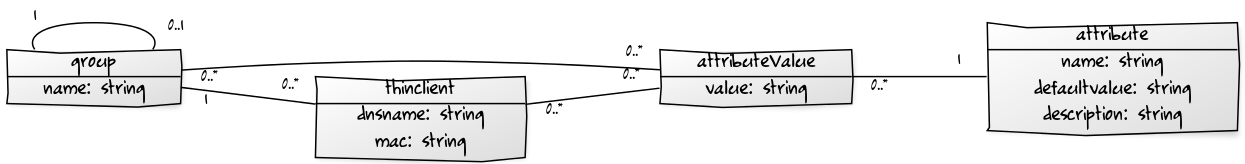
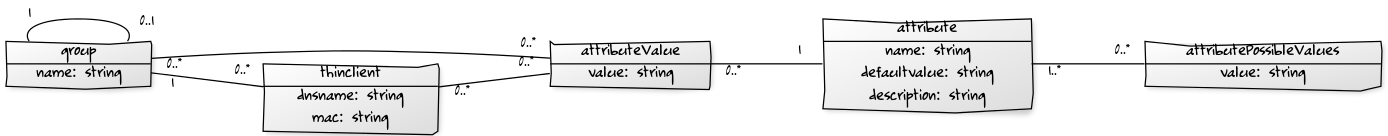
Cambio en el model, ahora hay una tabla extra para los valores posibles de los atributos

diff --git a/templates/admin/index.html b/templates/admin/index.html
@@ -1,0 +1,83 @@
+{% extends "admin/base_site.html" %}
+{% load i18n admin_static %}
+
+{% block extrastyle %}{{ block.super }}<link rel="stylesheet" type="text/css" href="{% static "admin/css/dashboard.css" %}" />{% endblock %}
+
+{% block coltype %}colMS{% endblock %}
+
+{% block bodyclass %}dashboard{% endblock %}
+
+{% block breadcrumbs %}{% endblock %}
+
+{% block content %}
+<div id="content-main">
+{% if app_list %}
+    {% for app in app_list %}
+        <div class="app-{{ app.app_label }} module">
+        <table>
+        <caption>
+            <a href="{{ app.app_url }}" class="section" title="{% blocktrans with name=app.name %}Models in the {{ name }} application{% endblocktrans %}">
+                {% blocktrans with name=app.name %}{{ name }}{% endblocktrans %}
+            </a>
+        </caption>
+        {% for model in app.models %}
+            <tr class="model-{{ model.object_name|lower }}">
+            {% if model.admin_url %}
+                <th scope="row"><a href="{{ model.admin_url }}">{{ model.name }}</a></th>
+            {% else %}
+                <th scope="row">{{ model.name }}</th>
+            {% endif %}
+
+            {% if model.add_url %}
+                <td><a href="{{ model.add_url }}" class="addlink">{% trans 'Add' %}</a></td>
+            {% else %}
+                <td>&nbsp;</td>
+            {% endif %}
+
+            {% if model.admin_url %}
+                <td><a href="{{ model.admin_url }}" class="changelink">{% trans 'Change' %}</a></td>
+            {% else %}
+                <td>&nbsp;</td>
+            {% endif %}
+            </tr>
+        {% endfor %}
+        </table>
+        </div>
+    {% endfor %}
+{% else %}
+    <p>{% trans "You don't have permission to edit anything." %}</p>
+{% endif %}
+</div>
+{% endblock %}
+
+{% block sidebar %}
+<div id="content-related">
+    <div class="module" id="recent-actions-module">
+        <h2>{% trans 'Recent Actions' %}</h2>
+        <h3>{% trans 'My Actions' %}</h3>
+            {% load log %}
+            {% get_admin_log 10 as admin_log for_user user %}
+            {% if not admin_log %}
+            <p>{% trans 'None available' %}</p>
+            {% else %}
+            <ul class="actionlist">
+            {% for entry in admin_log %}
+            <li class="{% if entry.is_addition %}addlink{% endif %}{% if entry.is_change %}changelink{% endif %}{% if entry.is_deletion %}deletelink{% endif %}">
+                {% if entry.is_deletion or not entry.get_admin_url %}
+                    {{ entry.object_repr }}
+                {% else %}
+                    <a href="{{ entry.get_admin_url }}">{{ entry.object_repr }}</a>
+                {% endif %}
+                <br/>
+                {% if entry.content_type %}
+                    <span class="mini quiet">{% filter capfirst %}{% trans entry.content_type.name %}{% endfilter %}</span>
+                {% else %}
+                    <span class="mini quiet">{% trans 'Unknown content' %}</span>
+                {% endif %}
+            </li>
+            {% endfor %}
+            </ul>
+            {% endif %}
+    </div>
+</div>
+{% endblock %}

diff --git a/templates/admin/base_site.html b/templates/admin/base_site.html
@@ -1,0 +1,10 @@
+{% extends "admin/base.html" %}
+{% load i18n %}
+
+{% block title %}{{ title }} | {% trans 'Django site admin' %}{% endblock %}
+
+{% block branding %}
+<h1 id="site-name">{% trans 'Django administration' %}</h1>
+{% endblock %}
+
+{% block nav-global %}{% endblock %}

diff --git a/ControlPanel/admin.py b/ControlPanel/admin.py
@@ -3,6 +3,7 @@ from django.contrib import admin
 # Register your models here.
 from ControlPanel.models import Attribute, Group, ThinClient
 from ControlPanel.models import GroupAttributeValue, ThinClientAttributeValue
+from ControlPanel.models import AttributePossibleValues
 
 
 class GroupAttributeInline(admin.TabularInline):
@@ -15,21 +16,26 @@ class ThinClientAttributeInline(admin.TabularInline):
     extra = 1
 
 
+class AttributeAttributePossibleValuesInline(admin.TabularInline):
+    model = AttributePossibleValues
+    extra = 1
+
+
 class AttributeAdmin(admin.ModelAdmin):
-    list_display = ('name', 'defaultValue', 'description')
+    list_display = ('name', 'description')
     search_fields = ['name']
     actions_on_top = True
     actions_on_bottom = True
     actions_selection_counter = True
     fieldsets = [
-        ('Atributo', {'fields': ['name', 'defaultValue', 'description'],
+        ('Atributo', {'fields': ['name', 'description'],
             'classes': ('wide', 'extrapretty'),
             'description': ('Attributes define specific properties that can be'
                             ' later assigned to ThinClients or groups.'
                             ),
                     }),
     ]
-
+    inlines = [AttributeAttributePossibleValuesInline]
 
 class GroupAdmin(admin.ModelAdmin):
     list_display = ('name', 'parent')

diff --git a/ControlPanel/models.py b/ControlPanel/models.py
@@ -2,23 +2,27 @@ from django.db import models
 
 
 # Create your models here.
+
 class Attribute(models.Model):
     def __unicode__(self):  # Python 3: def __str__(self):
         return self.name
 
     name = models.CharField('Name', max_length=200)
-    defaultValue = models.CharField(
-        'Default Value',
-        max_length=200,
-        null=True,
-        blank=True
-        )
     description = models.CharField(
         'Description',
         max_length=400,
         null=True,
         blank=True
         )
+
+
+class AttributePossibleValues(models.Model):
+    def __unicode__(self):
+        output = "%s : %s" % (self.attribute.name, self.value)
+        return output
+
+    attribute = models.ForeignKey(Attribute)
+    value = models.CharField('Value', max_length=200, null=True, blank=True)
 
 
 class Group(models.Model):

diff --git a/LTSPClusterPanel/urls.py b/LTSPClusterPanel/urls.py
@@ -7,6 +7,6 @@ urlpatterns = patterns('',
     # Examples:
     # url(r'^$', 'LTSPClusterPanel.views.home', name='home'),
     # url(r'^blog/', include('blog.urls')),
-
+    url(r'^ControlPanel/', include('ControlPanel.urls')),
     url(r'^admin/', include(admin.site.urls)),
 )

diff --git a/ControlPanel/views.py b/ControlPanel/views.py
@@ -1,3 +1,9 @@
 from django.shortcuts import render
 
 # Create your views here.
+from django.http import HttpResponse
+
+
+def index(request):
+    response = "Este es el HTTP Request: %s" % (request)
+    return HttpResponse(response)

diff --git a/LTSPClusterPanel/settings.py b/LTSPClusterPanel/settings.py
@@ -81,3 +81,7 @@ USE_TZ = True
 # https://docs.djangoproject.com/en/1.6/howto/static-files/
 
 STATIC_URL = '/static/'
+
+# Template used by applications
+
+TEMPLATE_DIRS = [os.path.join(BASE_DIR, 'templates')]

diff --git a/ControlPanel/urls.py b/ControlPanel/urls.py
@@ -1,0 +1,8 @@
+# -*- coding: utf-8 -*-
+from django.conf.urls import patterns, url
+
+from ControlPanel import views
+
+urlpatterns = patterns('',
+    url(r'^$', views.index, name='index')
+)

diff --git a/README.md b/README.md
@@ -11,6 +11,6 @@ Desing
 ------
 Entity Relationship Diagram (ERD):
 ![alt tag](https://github.com/mboscovich/LTSP-Cluster-Panel/blob/master/Diagrama-ER.png)
-(Generated from: http://yuml.me/edit/d104d947)
+(Generated from: http://yuml.me/edit/1373b93a)
 
 
